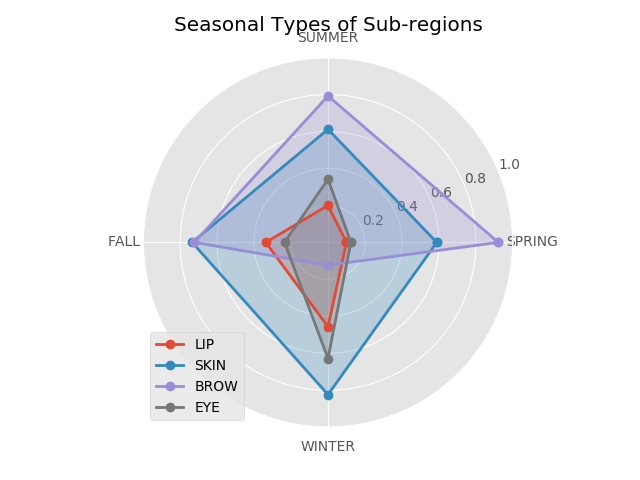
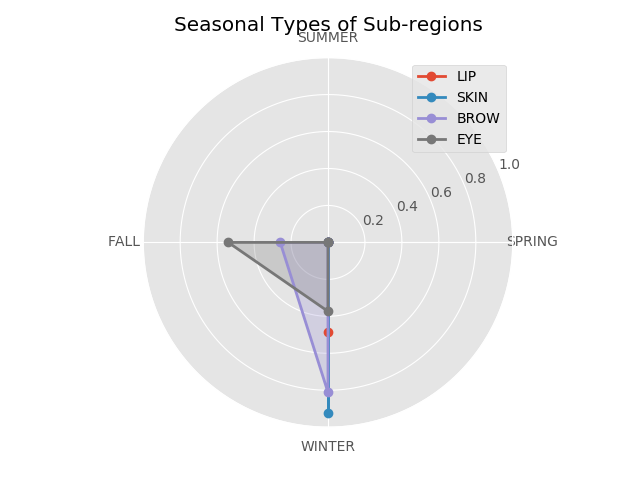
final code

diff --git a/gui.py b/gui.py
@@ -3,12 +3,12 @@ from tkinter import *
 from tkinter import filedialog
 from PIL import Image, ImageTk
 import wx 
-import main
-import radar 
+
 
 
 #"选择一张图片"按钮的点击事件
 def printcoords():
+    
     #File就是所选图片的路径
     global File 
     File = filedialog.askopenfilename(parent=root, initialdir="C:/",title='Choose an image.')
@@ -22,13 +22,15 @@ def printcoords():
 
 #“测试”按钮的点击事件
 def test():
-
+    
+    import main
+    import radar
     #新窗口
     root = Toplevel()
     root.geometry('1280x600')
-    
+    root.title("检测结果")
     #分区域的季节类型结果展示画布
-    cv_parts = Canvas(root, bg = 'red', width = 640, height = 480) 
+    cv_parts = Canvas(root, bg = 'white', width = 640, height = 480) 
     cv_parts.grid(row=0, column=0)
     
     #计算
@@ -45,7 +47,7 @@ def test():
     
     
     #综合结果展示画布
-    cv_total = Canvas(root, bg = 'red', width = 640, height = 480) 
+    cv_total = Canvas(root, bg = 'white', width = 640, height = 480) 
     cv_total.grid(row=0, column=1)
 
     #解析结果集并绘图
@@ -54,25 +56,25 @@ def test():
     radar_total_im=Image.open("radar_total.png")
     radar_total_im=radar_total_im.resize((640,480))
     filename = ImageTk.PhotoImage(radar_total_im)
-    cv_parts.image = filename
-    cv_parts.create_image(0,0,anchor='nw',image=filename)
+    cv_total.image = filename
+    cv_total.create_image(0,0,anchor='nw',image=filename)
 
     #文字区域
+    season=result[5]
     lb=Label(root, text='您所属的季节类型是：',font=('Arial', 30))
     lb.grid(row=1,column=0,sticky="e")
-    lb=Label(root, text='春季型',font=('Arial', 30))
+    lb=Label(root, text=season,font=('Arial', 30))
     lb.grid(row=1,column=1,sticky="nw")
     root.mainloop()
 
 
 if __name__ == "__main__":
+    #主窗口
     root = Tk()
     root.geometry('500x500')
+    root.title("“四季型人”自动检测")
     canvas= Canvas(root, bg = 'white', width = 300, height = 400)
     canvas.pack()
-
-    
-    
     Button(root,text='选择一张照片',command=printcoords).pack()
     Button(root,text='测试季节类型',command=test).pack()
     root.mainloop()

diff --git a/main.py b/main.py
@@ -30,13 +30,14 @@ def main(filepath):
     
     max_index= total_list.index(max(total_list))
     season=" "
-    
+
+
     if max_index==0:
         season="春季型"
     elif max_index==1:
         season="夏季型"
     elif max_index==2:
-        season="春季型"
+        season="秋季型"
     else:
         season="冬季型"
 
@@ -45,11 +46,14 @@ def main(filepath):
     print "眉：%s"%(brow_similar)
     print "眼：%s"%(eye_similar)
     
-    print total_list
-
-    result=[lip_similar,skin_similar,brow_similar,eye_similar,total_list]
+    print "总：%s"%(total_list)
+    print "季节类型：%s"%(season)
+    result=[lip_similar,skin_similar,brow_similar,eye_similar,total_list,season]
+    
     return result
 
+
+
 if __name__ == '__main__':
-    filepath='testcases/summer.jpeg'
+    filepath='testcases/lip_test_fall.jpg'
     main(filepath)
